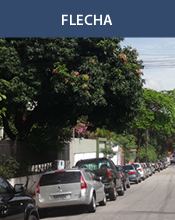
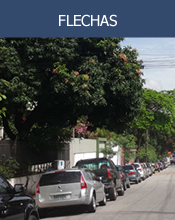
Atualização de nome do empreendimento
Atualizado empreendimento "Flecha" para "Flechas"

Changed region(s): [[0.3143, 0.0545, 0.6857, 0.1364]]

diff --git a/breveLancamento_int05.html b/breveLancamento_int05.html
@@ -79,7 +79,7 @@ function MM_openBrWindow(theURL,winName,features) { //v2.0
 <p class="t12 cinza margem18-esq">A ARCHTECH está sempre inovando, com lançamentos que seguem tendências e novidades internacionais e dão um tom contemporâneo à construção civil no país. </p>
 <p class="t12 cinza margem18-esq">Confira o que vem por aí:</p>
 
-<p class="t25 azul-escuro" style="margin-top:30px">FLECHA</p>
+<p class="t25 azul-escuro" style="margin-top:30px">FLECHAS</p>
 <div class="linha-vermelha" style="margin-top:-12px; margin-bottom:24px"></div>
 
 
